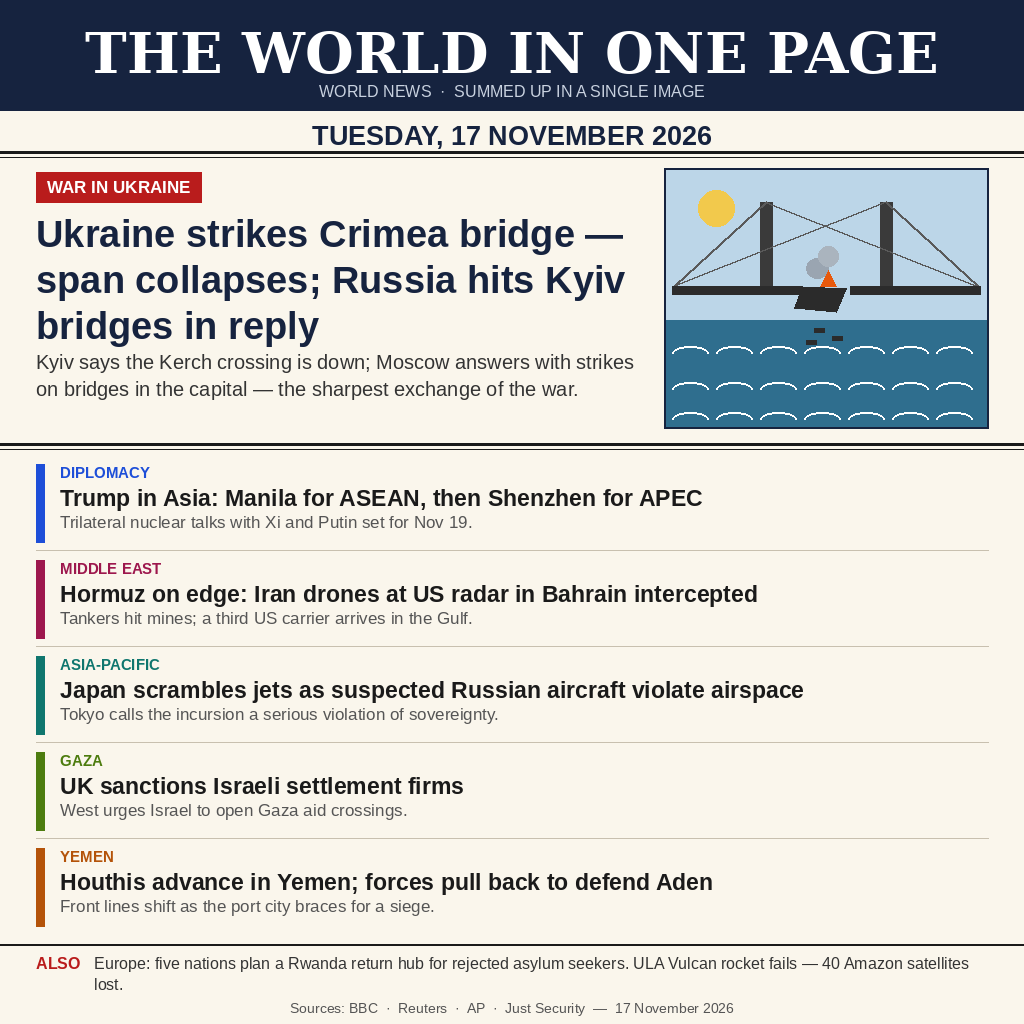
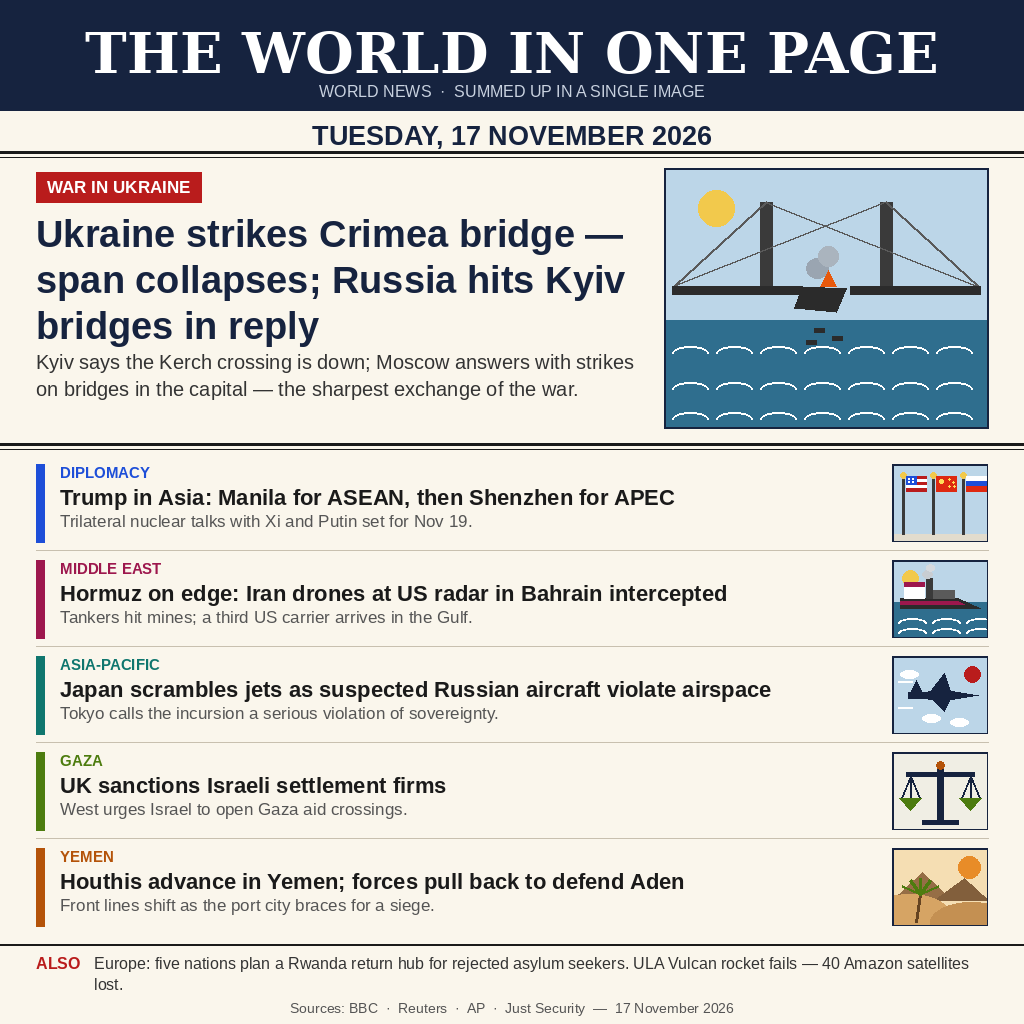
Add an illustration to every story row

diff --git a/render_image.py b/render_image.py
@@ -90,6 +90,121 @@ def draw_bridge(draw, x0, y0, w, h):
     draw.rectangle([x0, y0, x0 + w, y0 + h], outline=NAVY, width=2)
 
 
+def draw_flags(draw, x0, y0, w, h):
+    """Three small flags (US, China, Russia) on poles — trilateral talks."""
+    sky = (188, 214, 232)
+    draw.rectangle([x0, y0, x0 + w, y0 + h], fill=sky)
+    draw.rectangle([x0, y0 + h - 8, x0 + w, y0 + h], fill=(226, 220, 205))
+    for px in (x0 + 10, x0 + 40, x0 + 70):
+        draw.rectangle([px, y0 + 12, px + 2, y0 + h - 8], fill=(58, 58, 58))
+        draw.ellipse([px - 2, y0 + 8, px + 4, y0 + 14], fill=(242, 201, 76))
+    fy, fw, fh = y0 + 12, 20, 15
+    # US flag: stripes + blue canton
+    fx = x0 + 14
+    for i in range(5):
+        draw.rectangle([fx, fy + i * 3, fx + fw, fy + i * 3 + 3],
+                       fill=(185, 28, 28) if i % 2 == 0 else (255, 255, 255))
+    draw.rectangle([fx, fy, fx + 10, fy + 8], fill=(29, 78, 216))
+    for dx, dy in ((2, 2), (6, 2), (2, 5), (6, 5)):
+        draw.ellipse([fx + dx, fy + dy, fx + dx + 1, fy + dy + 1], fill=(255, 255, 255))
+    # China flag: red field, yellow stars
+    fx = x0 + 44
+    draw.rectangle([fx, fy, fx + fw, fy + fh], fill=(222, 41, 16))
+    draw.ellipse([fx + 3, fy + 3, fx + 7, fy + 7], fill=(255, 222, 89))
+    for dx, dy in ((12, 2), (16, 5), (12, 9), (17, 9)):
+        draw.ellipse([fx + dx, fy + dy, fx + dx + 2, fy + dy + 2], fill=(255, 222, 89))
+    # Russia flag: white / blue / red bands
+    fx = x0 + 74
+    for i, c in enumerate(((255, 255, 255), (29, 78, 216), (222, 41, 16))):
+        draw.rectangle([fx, fy + i * 5, fx + fw, fy + i * 5 + 5], fill=c)
+    draw.rectangle([x0, y0, x0 + w, y0 + h], outline=NAVY, width=2)
+
+
+def draw_tanker(draw, x0, y0, w, h):
+    """Oil tanker on waves — Strait of Hormuz."""
+    sky = (188, 214, 232)
+    sea = (47, 110, 142)
+    draw.rectangle([x0, y0, x0 + w, y0 + 42], fill=sky)
+    draw.rectangle([x0, y0 + 42, x0 + w, y0 + h], fill=sea)
+    draw.ellipse([x0 + 10, y0 + 10, x0 + 26, y0 + 26], fill=(242, 201, 76))
+    hy = y0 + 38
+    # hull (bow to the right)
+    draw.polygon([(x0 + 8, hy), (x0 + 66, hy), (x0 + 88, hy + 10),
+                  (x0 + 8, hy + 10)], fill=(43, 43, 43))
+    # burgundy stripe along the hull
+    draw.polygon([(x0 + 8, hy + 3), (x0 + 66, hy + 3), (x0 + 72, hy + 6),
+                  (x0 + 8, hy + 6)], fill=(157, 23, 77))
+    # deck cargo containers
+    draw.rectangle([x0 + 40, hy - 8, x0 + 62, hy], fill=(90, 90, 90))
+    # superstructure at the stern
+    draw.rectangle([x0 + 12, hy - 16, x0 + 32, hy], fill=(255, 255, 255))
+    draw.rectangle([x0 + 12, hy - 16, x0 + 32, hy - 12], fill=(157, 23, 77))
+    # funnel with smoke
+    draw.rectangle([x0 + 34, hy - 20, x0 + 40, hy], fill=(58, 58, 58))
+    draw.ellipse([x0 + 30, hy - 28, x0 + 40, hy - 20], fill=(200, 205, 210))
+    draw.ellipse([x0 + 34, hy - 34, x0 + 42, hy - 27], fill=(214, 218, 222))
+    # waves
+    for wy in (y0 + 58, y0 + 68):
+        for wx in range(x0 + 6, x0 + w - 18, 34):
+            draw.arc([wx, wy, wx + 28, wy + 10], 180, 360, fill=(255, 255, 255), width=2)
+    draw.rectangle([x0, y0, x0 + w, y0 + h], outline=NAVY, width=2)
+
+
+def draw_jet(draw, x0, y0, w, h):
+    """Fighter-jet silhouette in the sky, red sun (Japan)."""
+    sky = (188, 214, 232)
+    draw.rectangle([x0, y0, x0 + w, y0 + h], fill=sky)
+    draw.ellipse([x0 + w - 24, y0 + 10, x0 + w - 8, y0 + 26], fill=(185, 28, 28))
+    for cx, cy in ((x0 + 8, y0 + 14), (x0 + 30, y0 + 58), (x0 + 58, y0 + 62)):
+        draw.ellipse([cx, cy, cx + 18, cy + 8], fill=(255, 255, 255))
+    cy = y0 + h // 2
+    for ly in (cy - 14, cy + 12):
+        draw.line([(x0 + 6, ly), (x0 + 20, ly)], fill=(255, 255, 255), width=2)
+    # jet silhouette, nose to the right
+    draw.polygon([(x0 + 16, cy - 3), (x0 + 56, cy - 5), (x0 + 86, cy),
+                  (x0 + 56, cy + 5), (x0 + 16, cy + 3)], fill=NAVY)
+    draw.polygon([(x0 + 38, cy - 4), (x0 + 52, cy - 22), (x0 + 58, cy - 4)], fill=NAVY)
+    draw.polygon([(x0 + 40, cy + 4), (x0 + 52, cy + 16), (x0 + 58, cy + 4)], fill=NAVY)
+    draw.polygon([(x0 + 18, cy - 3), (x0 + 24, cy - 15), (x0 + 30, cy - 3)], fill=NAVY)
+    draw.rectangle([x0, y0, x0 + w, y0 + h], outline=NAVY, width=2)
+
+
+def draw_scales(draw, x0, y0, w, h):
+    """Scales of justice — sanctions / the law."""
+    draw.rectangle([x0, y0, x0 + w, y0 + h], fill=(240, 238, 228))
+    cx = x0 + w // 2
+    base_y = y0 + h - 10
+    draw.rectangle([cx - 3, y0 + 16, cx + 3, base_y], fill=NAVY)
+    draw.rectangle([cx - 18, base_y, cx + 18, base_y + 4], fill=NAVY)
+    draw.ellipse([cx - 4, y0 + 9, cx + 4, y0 + 17], fill=(180, 83, 9))
+    draw.rectangle([x0 + 14, y0 + 20, x0 + w - 14, y0 + 24], fill=NAVY)
+    for px in (x0 + 18, x0 + w - 18):
+        draw.line([(px, y0 + 24), (px - 9, y0 + 46)], fill=NAVY, width=2)
+        draw.line([(px, y0 + 24), (px + 9, y0 + 46)], fill=NAVY, width=2)
+        draw.line([(px, y0 + 24), (px, y0 + 46)], fill=NAVY, width=2)
+        draw.polygon([(px - 11, y0 + 46), (px + 11, y0 + 46), (px, y0 + 58)],
+                     fill=(77, 124, 15))
+    draw.rectangle([x0, y0, x0 + w, y0 + h], outline=NAVY, width=2)
+
+
+def draw_desert(draw, x0, y0, w, h):
+    """Desert dunes, mountains and a palm — Yemen."""
+    draw.rectangle([x0, y0, x0 + w, y0 + h], fill=(245, 222, 179))
+    draw.ellipse([x0 + 66, y0 + 8, x0 + 88, y0 + 30], fill=(232, 140, 40))
+    draw.polygon([(x0, y0 + 52), (x0 + 30, y0 + 24), (x0 + 60, y0 + 52)],
+                 fill=(150, 110, 70))
+    draw.polygon([(x0 + 42, y0 + 52), (x0 + 72, y0 + 30), (x0 + w, y0 + 52)],
+                 fill=(130, 95, 60))
+    draw.ellipse([x0 - 24, y0 + 46, x0 + 58, y0 + 88], fill=(214, 164, 100))
+    draw.ellipse([x0 + 38, y0 + 54, x0 + w + 24, y0 + 94], fill=(196, 144, 82))
+    # palm tree
+    draw.line([(x0 + 24, y0 + 74), (x0 + 28, y0 + 46)], fill=(101, 67, 33), width=3)
+    for ex, ey in ((x0 + 10, y0 + 38), (x0 + 18, y0 + 32), (x0 + 28, y0 + 30),
+                   (x0 + 38, y0 + 32), (x0 + 46, y0 + 38)):
+        draw.line([(x0 + 28, y0 + 46), (ex, ey)], fill=(77, 124, 15), width=3)
+    draw.rectangle([x0, y0, x0 + w, y0 + h], outline=NAVY, width=2)
+
+
 def main():
     img = Image.new("RGB", (W, H), PAPER)
     d = ImageDraw.Draw(img)
@@ -144,36 +259,45 @@ def main():
 
     # ---- supporting stories --------------------------------------------
     stories = [
-        ("DIPLOMACY", BLUE,
+        ("DIPLOMACY", BLUE, draw_flags,
          "Trump in Asia: Manila for ASEAN, then Shenzhen for APEC",
          "Trilateral nuclear talks with Xi and Putin set for Nov 19."),
-        ("MIDDLE EAST", BURGUNDY,
+        ("MIDDLE EAST", BURGUNDY, draw_tanker,
          "Hormuz on edge: Iran drones at US radar in Bahrain intercepted",
          "Tankers hit mines; a third US carrier arrives in the Gulf."),
-        ("ASIA-PACIFIC", TEAL,
+        ("ASIA-PACIFIC", TEAL, draw_jet,
          "Japan scrambles jets as suspected Russian aircraft violate airspace",
          "Tokyo calls the incursion a serious violation of sovereignty."),
-        ("GAZA", OLIVE,
+        ("GAZA", OLIVE, draw_scales,
          "UK sanctions Israeli settlement firms",
          "West urges Israel to open Gaza aid crossings."),
-        ("YEMEN", AMBER,
+        ("YEMEN", AMBER, draw_desert,
          "Houthis advance in Yemen; forces pull back to defend Aden",
          "Front lines shift as the port city braces for a siege."),
     ]
     f_stag = font(SANS_BOLD, 15)
-    f_sh = font(SANS_BOLD, 23)
+    f_sh = font(SANS_BOLD, 22)
     f_ss = font(SANS, 17)
+    THUMB_W, THUMB_H = 96, 78
+    THUMB_X = W - MARGIN - THUMB_W
+    TEXT_W = THUMB_X - 12 - (MARGIN + 24)
     y = 464
-    for tag, color, head, summ in stories:
+    for tag, color, illus, head, summ in stories:
         d.rectangle([MARGIN, y, MARGIN + 8, y + 78], fill=color)
         d.text((MARGIN + 24, y), tag, font=f_stag, fill=color)
         hy = y + 21
-        for ln in wrap(d, head, f_sh, W - MARGIN - (MARGIN + 24)):
+        for ln in wrap(d, head, f_sh, TEXT_W):
             d.text((MARGIN + 24, hy), ln, font=f_sh, fill=INK)
-            hy += 27
-        for ln in wrap(d, summ, f_ss, W - MARGIN - (MARGIN + 24)):
+            hy += 26
+        for ln in wrap(d, summ, f_ss, TEXT_W):
             d.text((MARGIN + 24, hy), ln, font=f_ss, fill=GRAY)
             hy += 21
+        # thumbnail: render on a temp image so nothing can spill past
+        # the panel bounds, then paste it into the row
+        thumb = Image.new("RGB", (THUMB_W, THUMB_H), PAPER)
+        td = ImageDraw.Draw(thumb)
+        illus(td, 0, 0, THUMB_W, THUMB_H)
+        img.paste(thumb, (THUMB_X, y))
         y += 96
         if y < 940:
             d.line([(MARGIN, y - 10), (W - MARGIN, y - 10)], fill=LIGHT_RULE, width=1)
